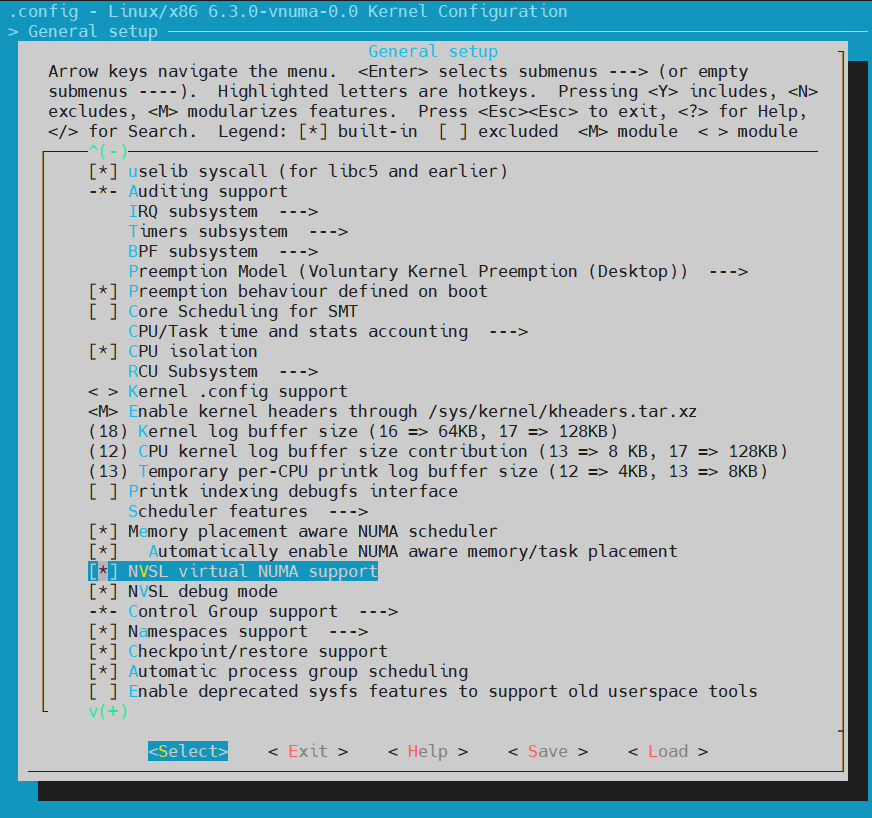
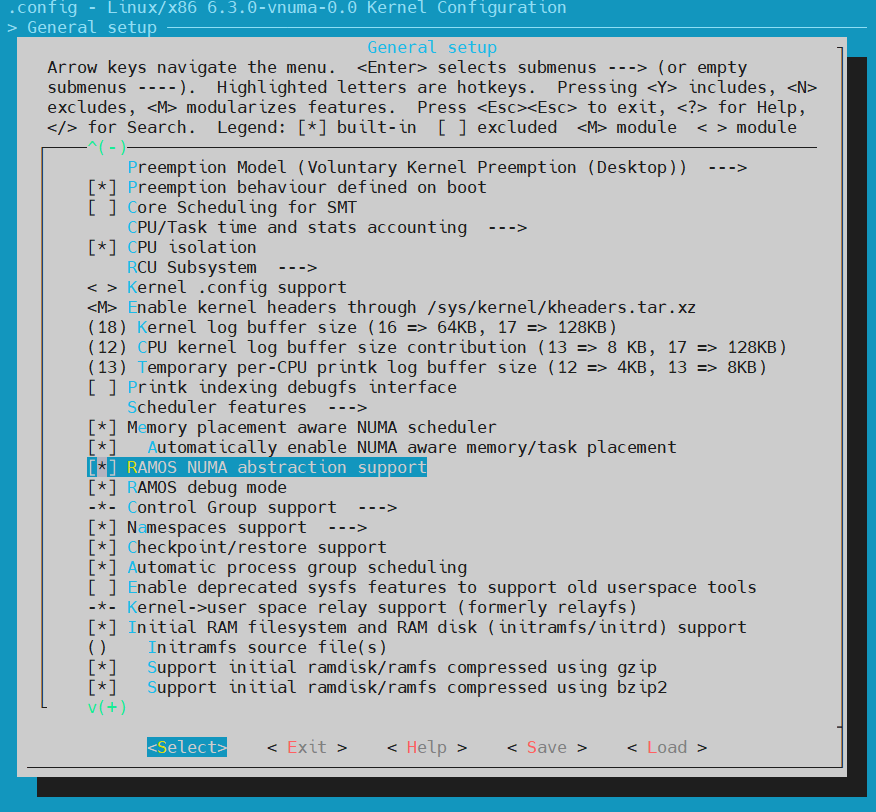
update names of ramos

Changed region(s): [[0.0, 0.0, 1.0, 0.9852], [0.031, 0.1847, 0.0619, 0.8621], [0.7741, 0.7697, 0.836, 0.8005]]

diff --git a/docs/memx-os/build.md b/docs/memx-os/build.md
@@ -5,7 +5,7 @@ title: Quick Start
 # Quick Start
 
 This page describes a simple workflow to prepare dependencies, configure the
-MemX-OS kernel, build it, and install it inside the guest image.
+MemX RAMOS kernel, build it, and install it inside the guest image.
 
 ## Get source code
 
@@ -40,13 +40,13 @@ Then open the configuration menu:
 make menuconfig
 ```
 
-In `make menuconfig`, enable the following MemX OS options under `General setup`:  
-- `NVSL Virtual NUMA Support`
-- `NVSL debug mode` (optional, for more verbose log output)
+In `make menuconfig`, enable the following RAMOS options under `General setup`:  
+- `RAMOS NUMA abstraction support`
+- `RAMOS debug mode` (optional, for more verbose log output)
 
 Reference example:
 
-![MemX OS kernel menuconfig example](/img/memx-os/kernel-config.png)
+![MemX RAMOS kernel menuconfig example](/img/memx-os/kernel-config.png)
 
 ## Build and install
 

diff --git a/docs/memx-ramryder/build.md b/docs/memx-ramryder/build.md
@@ -118,4 +118,4 @@ run-vm.sh
 ```
 
 ### Install kernel
-Log in to the VM and follow [MemX OS - build](/memx-os/build) to install the kernel.
+Log in to the VM and follow [MemX RAMOS - build](/memx-os/build) to install the kernel.

diff --git a/docs/memx-ramryder/config.md b/docs/memx-ramryder/config.md
@@ -256,7 +256,7 @@ $node5 \
 ```
 
 At this point, `run-vm.sh` should be ready. Launch the VM and install the
-kernel if this is your first image. Refer to [MemX OS - build](/memx-os/build)
+kernel if this is your first image. Refer to [MemX RAMOS - build](/memx-os/build)
 for kernel build instructions. After the kernel is installed in the image, you
 can copy that image for other VMs without repeating the installation.
 